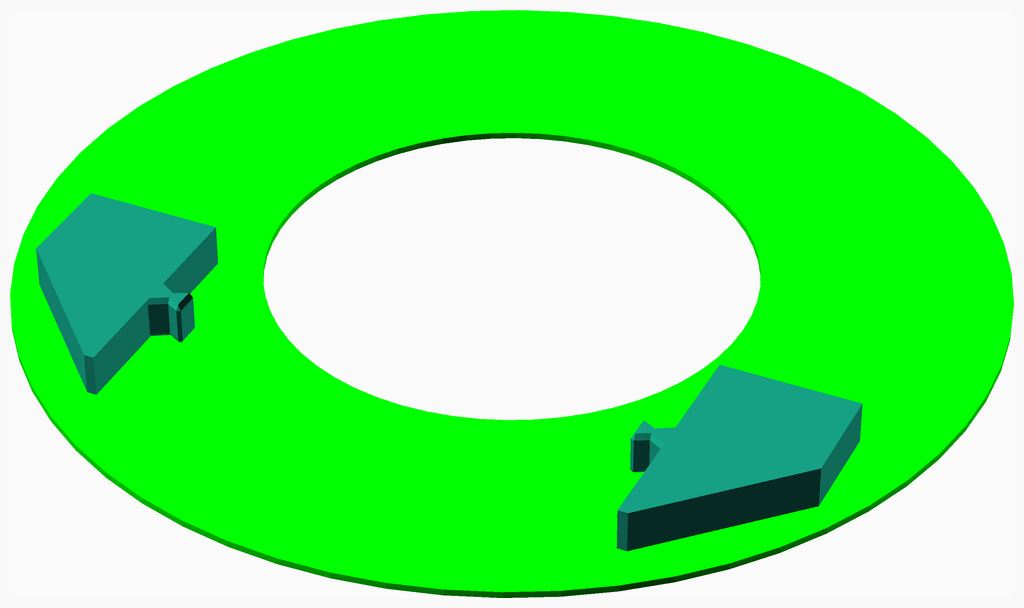
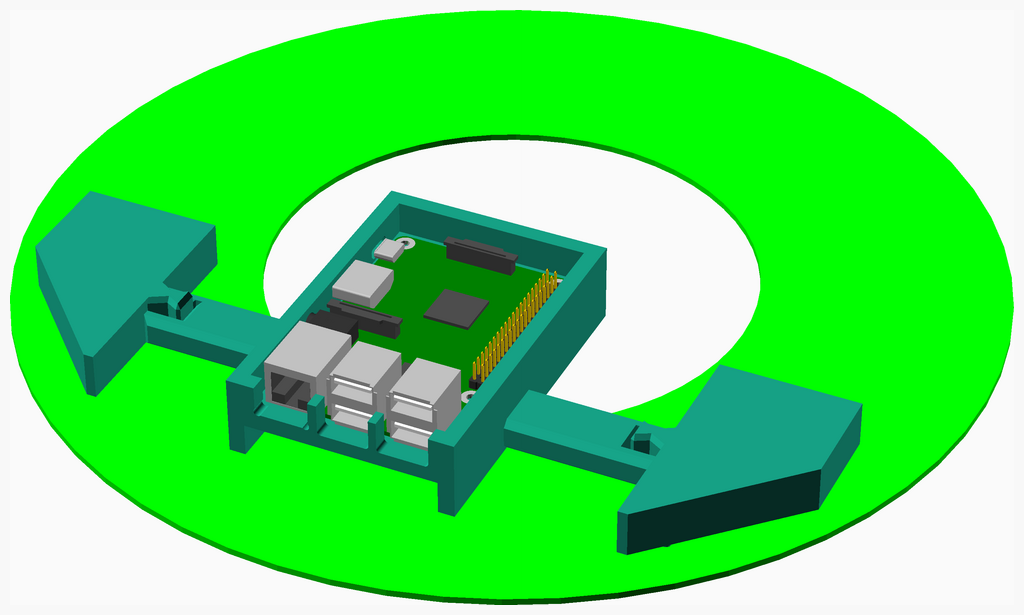
Remove cable wrap. Adjust clearance on PI holder

diff --git a/README.md b/README.md
@@ -7,6 +7,7 @@
 ---
 ## Table of Contents
 1. [Parts list](#Parts_list)
+1. [Pi Mount Assembly Assembly](#pi_mount_assembly_assembly)
 1. [Right Block Assembly](#right_block_assembly)
 1. [Left Block Assembly](#left_block_assembly)
 1. [Main Assembly](#main_assembly)
@@ -17,12 +18,43 @@
 ---
 <a name="Parts_list"></a>
 ## Parts list
-| <span style="writing-mode: vertical-rl; text-orientation: mixed;">Right&nbsp;Block</span> | <span style="writing-mode: vertical-rl; text-orientation: mixed;">Left&nbsp;Block</span> | <span style="writing-mode: vertical-rl; text-orientation: mixed;">Main</span> | <span style="writing-mode: vertical-rl; text-orientation: mixed;">TOTALS</span> |  |
-|---:|---:|---:|---:|:---|
-|  |  |  | | **3D printed parts** |
-| &nbsp;&nbsp;.&nbsp; | &nbsp;&nbsp;1&nbsp; | &nbsp;&nbsp;.&nbsp; |  &nbsp;&nbsp;1&nbsp; | &nbsp;&nbsp;fastener_left.stl |
-| &nbsp;&nbsp;1&nbsp; | &nbsp;&nbsp;.&nbsp; | &nbsp;&nbsp;.&nbsp; |  &nbsp;&nbsp;1&nbsp; | &nbsp;&nbsp;fastener_right.stl |
-| &nbsp;&nbsp;1&nbsp; | &nbsp;&nbsp;1&nbsp; | &nbsp;&nbsp;.&nbsp; | &nbsp;&nbsp;2&nbsp; | &nbsp;&nbsp;Total 3D printed parts count |
+| <span style="writing-mode: vertical-rl; text-orientation: mixed;">Pi&nbsp;Mount&nbsp;Assembly</span> | <span style="writing-mode: vertical-rl; text-orientation: mixed;">Right&nbsp;Block</span> | <span style="writing-mode: vertical-rl; text-orientation: mixed;">Left&nbsp;Block</span> | <span style="writing-mode: vertical-rl; text-orientation: mixed;">Main</span> | <span style="writing-mode: vertical-rl; text-orientation: mixed;">TOTALS</span> |  |
+|---:|---:|---:|---:|---:|:---|
+|  |  |  |  | | **Vitamins** |
+| &nbsp;&nbsp;1&nbsp; | &nbsp;&nbsp;.&nbsp; | &nbsp;&nbsp;.&nbsp; | &nbsp;&nbsp;.&nbsp; |  &nbsp;&nbsp;1&nbsp; | &nbsp;&nbsp; Micro SD card |
+| &nbsp;&nbsp;1&nbsp; | &nbsp;&nbsp;.&nbsp; | &nbsp;&nbsp;.&nbsp; | &nbsp;&nbsp;.&nbsp; |  &nbsp;&nbsp;1&nbsp; | &nbsp;&nbsp; Raspberry Pi 3 |
+| &nbsp;&nbsp;2&nbsp; | &nbsp;&nbsp;.&nbsp; | &nbsp;&nbsp;.&nbsp; | &nbsp;&nbsp;.&nbsp; | &nbsp;&nbsp;2&nbsp; | &nbsp;&nbsp;Total vitamins count |
+|  |  |  |  | | **3D printed parts** |
+| &nbsp;&nbsp;.&nbsp; | &nbsp;&nbsp;.&nbsp; | &nbsp;&nbsp;1&nbsp; | &nbsp;&nbsp;.&nbsp; |  &nbsp;&nbsp;1&nbsp; | &nbsp;&nbsp;fastener_left.stl |
+| &nbsp;&nbsp;.&nbsp; | &nbsp;&nbsp;1&nbsp; | &nbsp;&nbsp;.&nbsp; | &nbsp;&nbsp;.&nbsp; |  &nbsp;&nbsp;1&nbsp; | &nbsp;&nbsp;fastener_right.stl |
+| &nbsp;&nbsp;1&nbsp; | &nbsp;&nbsp;.&nbsp; | &nbsp;&nbsp;.&nbsp; | &nbsp;&nbsp;.&nbsp; |  &nbsp;&nbsp;1&nbsp; | &nbsp;&nbsp;pi_mount.stl |
+| &nbsp;&nbsp;1&nbsp; | &nbsp;&nbsp;1&nbsp; | &nbsp;&nbsp;1&nbsp; | &nbsp;&nbsp;.&nbsp; | &nbsp;&nbsp;3&nbsp; | &nbsp;&nbsp;Total 3D printed parts count |
+
+<span></span>
+[Top](#TOP)
+
+---
+<a name="pi_mount_assembly_assembly"></a>
+## Pi Mount Assembly Assembly
+### Vitamins
+|Qty|Description|
+|---:|:----------|
+|1| Micro SD card|
+|1| Raspberry Pi 3|
+
+
+### 3D Printed parts
+
+| 1 x pi_mount.stl |
+|---|
+| ![pi_mount.stl](stls/pi_mount.png) 
+
+
+
+### Assembly instructions
+![pi_mount_assembly_assembly](assemblies/pi_mount_assembly_assembly.png)
+
+![pi_mount_assembled_assembled](assemblies/pi_mount_assembled_assembled.png)
 
 <span></span>
 [Top](#TOP)
@@ -70,16 +102,16 @@
 ## Main Assembly
 ### Sub-assemblies
 
-| 1 x left_block_assembly | 1 x right_block_assembly |
-|---|---|
-| ![left_block_assembled](assemblies/left_block_assembled_tn.png) | ![right_block_assembled](assemblies/right_block_assembled_tn.png) 
+| 1 x left_block_assembly | 1 x pi_mount_assembly_assembly | 1 x right_block_assembly |
+|---|---|---|
+| ![left_block_assembled](assemblies/left_block_assembled_tn.png) | ![pi_mount_assembled_assembled](assemblies/pi_mount_assembled_assembled_tn.png) | ![right_block_assembled](assemblies/right_block_assembled_tn.png) 
 
 
 
 ### Assembly instructions
-![main_assembly](assemblies/main_assembly_tn.png)
+![main_assembly](assemblies/main_assembly.png)
 
-![main_assembled](assemblies/main_assembled_tn.png)
+![main_assembled](assemblies/main_assembled.png)
 
 <span></span>
 [Top](#TOP)
